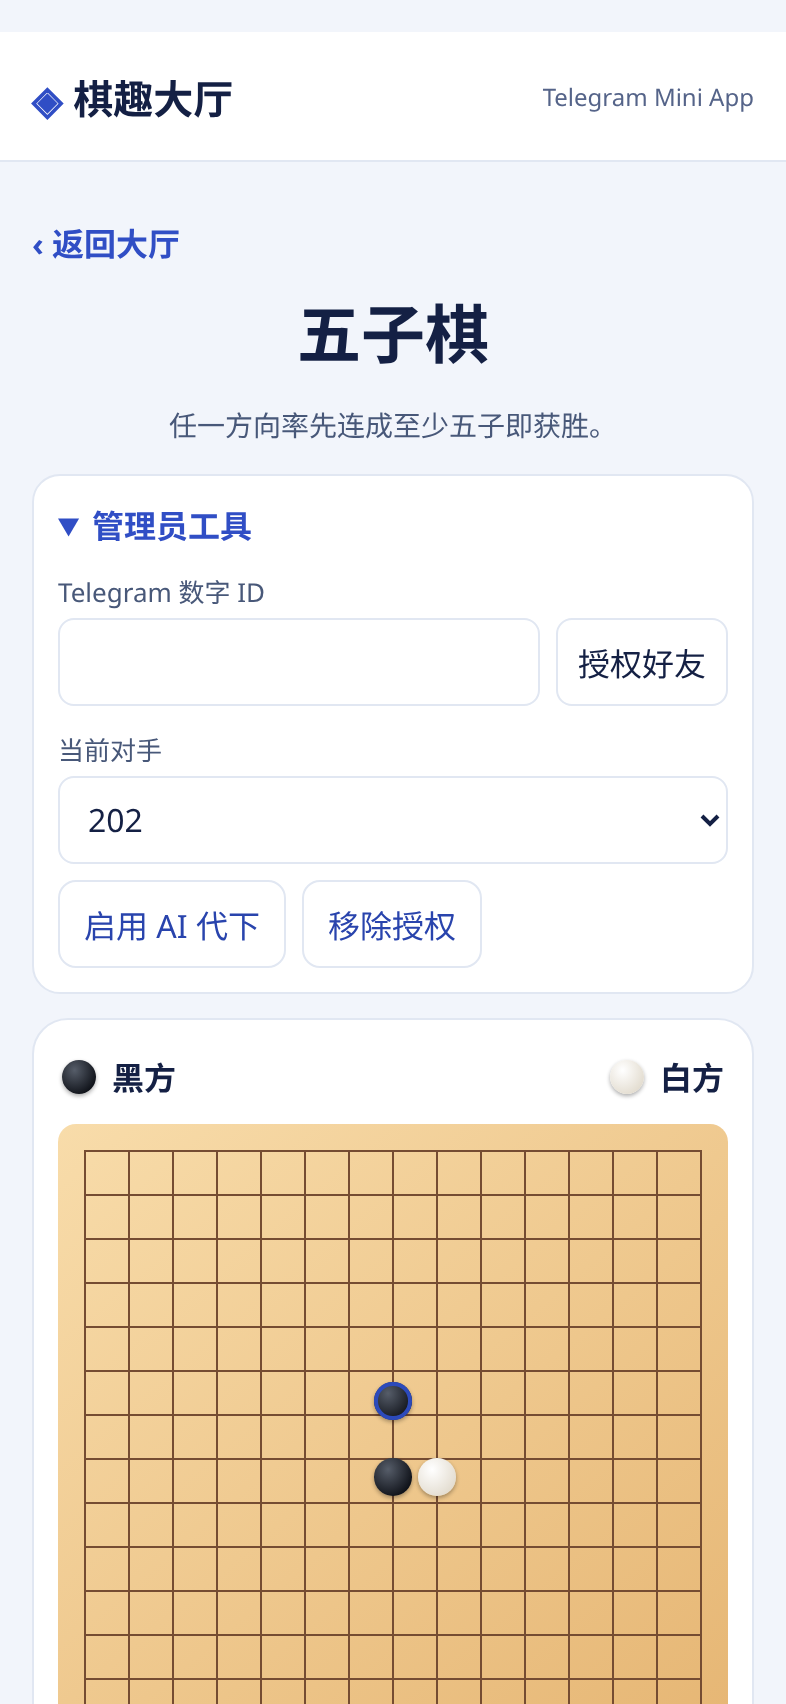
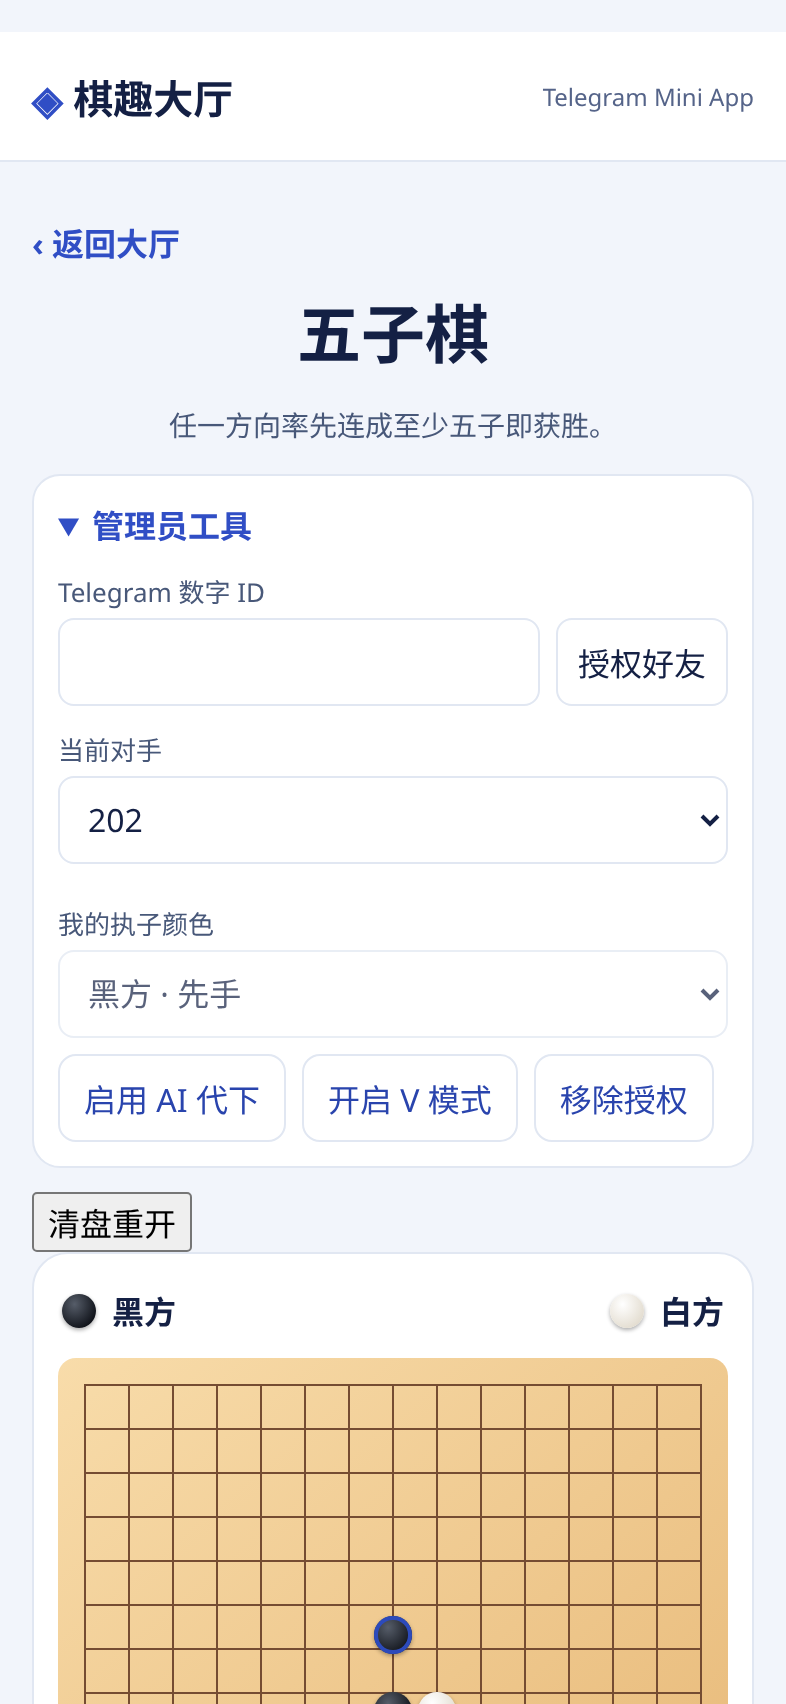
Serve management controls only to the verified owner

diff --git a/public/app.js b/public/app.js
@@ -4,27 +4,11 @@ const room = document.querySelector('#room');
 const board = document.querySelector('#board');
 const status = document.querySelector('#status');
 const join = document.querySelector('#join');
-const reset = document.querySelector('#reset');
-const management = document.querySelector('#management');
-const opponent = document.querySelector('#opponent');
-const toggleAI = document.querySelector('#toggle-ai');
-const ownerColor = document.querySelector('#owner-color');
 const practiceControls = document.querySelector('#practice-controls');
 const practiceButtons = [...document.querySelectorAll('[data-start-color]')];
-const analysisPanel = document.querySelector('#analysis');
-const analysisContext = document.querySelector('#analysis-context');
-const analysisList = document.querySelector('#analysis-line');
-const vMode = document.querySelector('#v-mode');
-const vActions = document.querySelector('#v-actions');
-const vStart = document.querySelector('#v-start');
-const vSubmit = document.querySelector('#v-submit');
-const vCancel = document.querySelector('#v-cancel');
 let vCells = null;
-const resign = document.querySelector('#resign');
+let adminUI = null;
 const roomTitle = document.querySelector('#room-title');
-const revoke = document.querySelector('#revoke');
-const authorize = document.querySelector('#authorize');
-const friend = document.querySelector('#friend-id');
 const size = 15;
 let current = null;
 let pending = false;
@@ -58,19 +42,6 @@ const cells = Array.from({ length: size * size }, (_, index) => {
 function render(error = '') {
   const analysis = current?.management?.analysis;
   const line = analysis?.line ?? [];
-  analysisContext.textContent = analysis?.afterMove
-    ? '若走第 1 步，对手可以按标注强制成五。AI 已暂停，你可以另选一手，或考虑认输。'
-    : '若直接轮到对手，对手有这条冲四胜线。AI 已暂停，你可以接手找防守，或考虑认输。';
-  analysisPanel.hidden = !line.length;
-  resign.disabled = pending;
-  if (analysisList.dataset.line !== JSON.stringify(line)) {
-    analysisList.dataset.line = JSON.stringify(line);
-    analysisList.replaceChildren(...line.map(({ index, side }) => {
-      const item = document.createElement('li');
-      item.textContent = `${side === 1 ? '黑' : '白'} · 第 ${Math.floor(index / size) + 1} 行，第 ${index % size + 1} 列`;
-      return item;
-    }));
-  }
   if (!current?.management?.vMode || !current.joined || current.result) vCells = null;
   const playable = current?.joined && current.side === current.turn && !current.result && !current.management?.ai && !pending;
   for (const [index, cell] of cells.entries()) {
@@ -87,31 +58,11 @@ function render(error = '') {
     cell.setAttribute('aria-label', stone ? `${label}，${stone === 1 ? '黑子' : '白子'}` : label);
   }
   const admin = current?.management;
-  management.hidden = !admin;
-  if (admin) {
-    if (opponent.dataset.allowed !== admin.allowed.join(',')) {
-      opponent.dataset.allowed = admin.allowed.join(',');
-      opponent.replaceChildren(new Option('选择已授权好友', ''), ...admin.allowed.map(id => new Option(id, id)));
-    }
-    opponent.value = admin.opponent ?? '';
-    toggleAI.hidden = revoke.hidden = vMode.hidden = !admin.opponent;
-    vMode.textContent = admin.vMode ? '关闭 V 模式' : '开启 V 模式';
-    vMode.disabled = pending;
-    toggleAI.textContent = admin.ai ? '手动接管' : '启用 AI 代下';
-    opponent.disabled = toggleAI.disabled = revoke.disabled = pending;
-    ownerColor.value = current.side;
-    ownerColor.disabled = pending || !admin.opponent || current.last !== null;
-  }
-  vActions.hidden = !admin?.vMode || !current?.joined || Boolean(current.result);
-  vStart.hidden = Boolean(vCells);
-  vStart.disabled = pending;
-  vSubmit.hidden = vCancel.hidden = !vCells;
-  vSubmit.disabled = pending || vCells?.length !== 2;
+  if (admin && adminUI) renderAdmin(admin, analysis, line);
   practiceControls.hidden = !practice || !current;
   for (const button of practiceButtons) button.disabled = pending;
   join.hidden = practice || !current || current.side !== 0 || current.joined;
-  reset.hidden = !admin?.opponent || !current?.joined;
-  join.disabled = reset.disabled = pending;
+  join.disabled = pending;
   let message = '正在连接对局…';
   if (current) {
     const { result, joined, side, turn } = current;
@@ -124,6 +75,106 @@ function render(error = '') {
   }
   const next = error || (vCells ? `已选 ${vCells.length} / 2 个落点` : message);
   if (status.textContent !== next) status.textContent = next;
+}
+
+function renderAdmin(admin, analysis, line) {
+  const { reset, management, opponent, toggleAI, ownerColor, analysisPanel, analysisContext, analysisList, vMode, vActions, vStart, vSubmit, vCancel, resign, revoke } = adminUI;
+  analysisContext.textContent = analysis?.afterMove
+    ? '若走第 1 步，对手可以按标注强制成五。AI 已暂停，你可以另选一手，或考虑认输。'
+    : '若直接轮到对手，对手有这条冲四胜线。AI 已暂停，你可以接手找防守，或考虑认输。';
+  analysisPanel.hidden = !line.length;
+  resign.disabled = pending;
+  if (analysisList.dataset.line !== JSON.stringify(line)) {
+    analysisList.dataset.line = JSON.stringify(line);
+    analysisList.replaceChildren(...line.map(({ index, side }) => {
+      const item = document.createElement('li');
+      item.textContent = `${side === 1 ? '黑' : '白'} · 第 ${Math.floor(index / size) + 1} 行，第 ${index % size + 1} 列`;
+      return item;
+    }));
+  }
+  management.hidden = false;
+  if (opponent.dataset.allowed !== admin.allowed.join(',')) {
+    opponent.dataset.allowed = admin.allowed.join(',');
+    opponent.replaceChildren(new Option('选择已授权好友', ''), ...admin.allowed.map(id => new Option(id, id)));
+  }
+  opponent.value = admin.opponent ?? '';
+  toggleAI.hidden = revoke.hidden = vMode.hidden = !admin.opponent;
+  vMode.textContent = admin.vMode ? '关闭 V 模式' : '开启 V 模式';
+  vMode.disabled = pending;
+  toggleAI.textContent = admin.ai ? '手动接管' : '启用 AI 代下';
+  opponent.disabled = toggleAI.disabled = revoke.disabled = pending;
+  ownerColor.value = current.side;
+  ownerColor.disabled = pending || !admin.opponent || current.last !== null;
+  vActions.hidden = !admin?.vMode || !current?.joined || Boolean(current.result);
+  vStart.hidden = Boolean(vCells);
+  vStart.disabled = pending;
+  vSubmit.hidden = vCancel.hidden = !vCells;
+  vSubmit.disabled = pending || vCells?.length !== 2;
+  reset.hidden = !admin.opponent || !current.joined;
+  reset.disabled = pending;
+}
+
+async function loadAdmin(initData) {
+  const response = await fetch('/api/admin-panel', {
+    headers: { 'X-Telegram-Init-Data': initData },
+    signal: AbortSignal.timeout(8000),
+  });
+  if (!response.ok) throw new Error('无法加载管理界面');
+  const root = document.createElement('div');
+  const template = document.createElement('template');
+  template.innerHTML = await response.text();
+  root.append(template.content);
+  const find = id => root.querySelector(id);
+  const { reset, management, opponent, toggleAI, ownerColor, analysisPanel, analysisContext, analysisList, vMode, vActions, vStart, vSubmit, vCancel, resign, revoke, authorize, friend } = adminUI = {
+    root,
+    reset: find('#reset'),
+    management: find('#management'),
+    opponent: find('#opponent'),
+    toggleAI: find('#toggle-ai'),
+    ownerColor: find('#owner-color'),
+    analysisPanel: find('#analysis'),
+    analysisContext: find('#analysis-context'),
+    analysisList: find('#analysis-line'),
+    vMode: find('#v-mode'),
+    vActions: find('#v-actions'),
+    vStart: find('#v-start'),
+    vSubmit: find('#v-submit'),
+    vCancel: find('#v-cancel'),
+    resign: find('#resign'),
+    revoke: find('#revoke'),
+    authorize: find('#authorize'),
+    friend: find('#friend-id'),
+  };
+  room.querySelector('.arena').before(root);
+
+  authorize.onsubmit = event => {
+    event.preventDefault();
+    request({ type: 'authorize', id: friend.value.trim() });
+  };
+  opponent.onchange = () => {
+    if (opponent.value) request({ type: 'select', id: opponent.value });
+  };
+  vMode.onclick = () => request({ type: 'v-mode', enabled: !current.management.vMode });
+  vStart.onclick = () => { vCells = []; render(); };
+  vCancel.onclick = () => { vCells = null; render(); };
+  vSubmit.onclick = () => request({ type: 'v-move', cells: vCells });
+  resign.onclick = () => {
+    if (window.confirm('确认认输并结束本局？')) request({ type: 'resign' });
+  };
+  ownerColor.onchange = () => request({ type: 'color', side: Number(ownerColor.value) });
+  toggleAI.onclick = () => request({ type: 'mode', ai: !current.management.ai });
+  revoke.onclick = () => {
+    if (window.confirm('移除该好友的授权并清除私人棋局？')) request({ type: 'revoke', id: current.management.opponent });
+  };
+  reset.onclick = () => {
+    if (window.confirm('清空当前对局？好友需要重新入席。')) request({ type: 'reset' });
+  };
+}
+
+function removeAdmin() {
+  adminUI?.root.remove();
+  adminUI = null;
+  vCells = null;
 }
 
 async function request(action) {
@@ -148,15 +199,25 @@ async function request(action) {
     const data = await response.json();
     if (requestPractice !== practice) return;
     if (response.ok) {
+      if (data.management && !adminUI) await loadAdmin(initData);
+      if (requestPractice !== practice || room.hidden) {
+        removeAdmin();
+        return;
+      }
+      if (!data.management) removeAdmin();
       if (action || current?.management?.opponent !== data.management?.opponent) vCells = null;
       current = data;
     }
     else {
-      if (response.status !== 409) current = null;
+      if (response.status !== 409) {
+        current = null;
+        removeAdmin();
+      }
       error = data.error;
     }
   } catch {
     current = null;
+    removeAdmin();
     error = '连接中断，正在等待重连。';
   } finally {
     pending = false;
@@ -165,36 +226,15 @@ async function request(action) {
   }
 }
 
-authorize.onsubmit = event => {
-  event.preventDefault();
-  request({ type: 'authorize', id: friend.value.trim() });
-};
-opponent.onchange = () => {
-  if (opponent.value) request({ type: 'select', id: opponent.value });
-};
-vMode.onclick = () => request({ type: 'v-mode', enabled: !current.management.vMode });
-vStart.onclick = () => { vCells = []; render(); };
-vCancel.onclick = () => { vCells = null; render(); };
-vSubmit.onclick = () => request({ type: 'v-move', cells: vCells });
-resign.onclick = () => {
-  if (window.confirm('确认认输并结束本局？')) request({ type: 'resign' });
-};
-ownerColor.onchange = () => request({ type: 'color', side: Number(ownerColor.value) });
 for (const button of practiceButtons) button.onclick = () => {
   if (current?.joined && !current.result && current.last !== null && !window.confirm('结束这局并重新开局？')) return;
   request({ type: 'start', side: Number(button.dataset.startColor) });
 };
-toggleAI.onclick = () => request({ type: 'mode', ai: !current.management.ai });
-revoke.onclick = () => {
-  if (window.confirm('移除该好友的授权并清除私人棋局？')) request({ type: 'revoke', id: current.management.opponent });
-};
 join.onclick = () => request({ type: 'join' });
-reset.onclick = () => {
-  if (window.confirm('清空当前对局？好友需要重新入席。')) request({ type: 'reset' });
-};
 function route() {
   const nextPractice = location.hash === '#practice';
-  if (nextPractice !== practice) current = null;
+  if (nextPractice !== practice || location.hash !== '#gomoku') removeAdmin();
+  if (nextPractice !== practice || location.hash !== '#gomoku') current = null;
   practice = nextPractice;
   roomTitle.textContent = practice ? '人机练习' : '五子棋';
   room.hidden = !practice && location.hash !== '#gomoku';

diff --git a/public/index.html b/public/index.html
@@ -20,27 +20,12 @@
 <section id="room" hidden>
   <a class="back" href="#">‹ 返回大厅</a>
   <header class="room-head"><h1 id="room-title">五子棋</h1><p>任一方向率先连成至少五子即获胜。</p></header>
-  <details id="management" class="management" hidden>
-    <summary>管理员工具</summary>
-    <form id="authorize"><label for="friend-id">Telegram 数字 ID</label><div><input id="friend-id" inputmode="numeric" maxlength="16" required><button type="submit">授权好友</button></div></form>
-    <label for="opponent">当前对手</label>
-    <select id="opponent"><option value="">选择已授权好友</option></select>
-    <label for="owner-color">我的执子颜色</label><select id="owner-color"><option value="1">黑方 · 先手</option><option value="2">白方 · 后手</option></select>
-    <div class="controls"><button id="toggle-ai" type="button" hidden></button><button id="v-mode" type="button" hidden></button><button id="revoke" type="button" hidden>移除授权</button></div>
-  </details>
-  <aside id="analysis" class="management" hidden>
-    <strong>对手有冲四胜线</strong>
-    <p id="analysis-context"></p>
-    <ol id="analysis-line"></ol>
-    <button id="resign" type="button">认输</button>
-  </aside>
   <div class="arena">
     <div class="seats"><span><i class="black"></i>黑方</span><span><i class="white"></i>白方</span></div>
     <div id="board" role="group" aria-label="十五路五子棋棋盘"></div>
-    <div id="v-actions" class="controls" hidden><button id="v-start" type="button">选两个落点</button><button id="v-submit" type="button" hidden>确认双落子</button><button id="v-cancel" type="button" hidden>取消</button></div>
     <p id="status" role="status">正在连接对局…</p>
     <div id="practice-controls" class="controls" hidden><button data-start-color="1">执黑开局</button><button data-start-color="2">执白开局</button></div>
-    <div class="controls"><button id="join" class="primary" hidden>入席</button><button id="reset" hidden>清盘重开</button></div>
+    <div class="controls"><button id="join" class="primary" hidden>入席</button></div>
   </div>
 </section>
 </main>

diff --git a/admin-panel.html b/admin-panel.html
@@ -1,0 +1,16 @@
+  <details id="management" class="management" hidden>
+    <summary>管理员工具</summary>
+    <form id="authorize"><label for="friend-id">Telegram 数字 ID</label><div><input id="friend-id" inputmode="numeric" maxlength="16" required><button type="submit">授权好友</button></div></form>
+    <label for="opponent">当前对手</label>
+    <select id="opponent"><option value="">选择已授权好友</option></select>
+    <label for="owner-color">我的执子颜色</label><select id="owner-color"><option value="1">黑方 · 先手</option><option value="2">白方 · 后手</option></select>
+    <div class="controls"><button id="toggle-ai" type="button" hidden></button><button id="v-mode" type="button" hidden></button><button id="revoke" type="button" hidden>移除授权</button></div>
+  </details>
+  <aside id="analysis" class="management" hidden>
+    <strong>对手有冲四胜线</strong>
+    <p id="analysis-context"></p>
+    <ol id="analysis-line"></ol>
+    <button id="resign" type="button">认输</button>
+  </aside>
+    <div id="v-actions" class="controls" hidden><button id="v-start" type="button">选两个落点</button><button id="v-submit" type="button" hidden>确认双落子</button><button id="v-cancel" type="button" hidden>取消</button></div>
+    <button id="reset" type="button" hidden>清盘重开</button>

diff --git a/README.md b/README.md
@@ -44,3 +44,5 @@ bash deploy/install.sh --register-webhook
 V 模式由管理员在指定好友局开启，可选定两个空位并确认。服务器按选定顺序落同色子，不要求当前轮到管理员。第一枚已结束对局时不会落第二枚。执行后取消待执行的 AI 落子。
 
 镜像审查来源：[Node.js 24.22.1 发布说明](https://nodejs.org/en/blog/release/v24.22.1)、[Caddy 2.11.9 发布](https://github.com/caddyserver/caddy/releases/tag/v2.11.9)、[Caddy 安全公告](https://github.com/caddyserver/caddy/security/advisories)、[Docker Official Images](https://github.com/docker-library/official-images)。已按上游公告选择修复后的 Caddy 版本。当前开发环境无法访问 Debian 和 Alpine 的完整安全数据库，基础镜像传递依赖的完整漏洞扫描尚待完成。
+
+管理员界面由单独的服务端端点提供。该端点验证 Telegram 签名和 Owner ID。普通玩家收到的页面没有管理面板、AI 代下、VCF 提示、V 模式或清盘控制。
